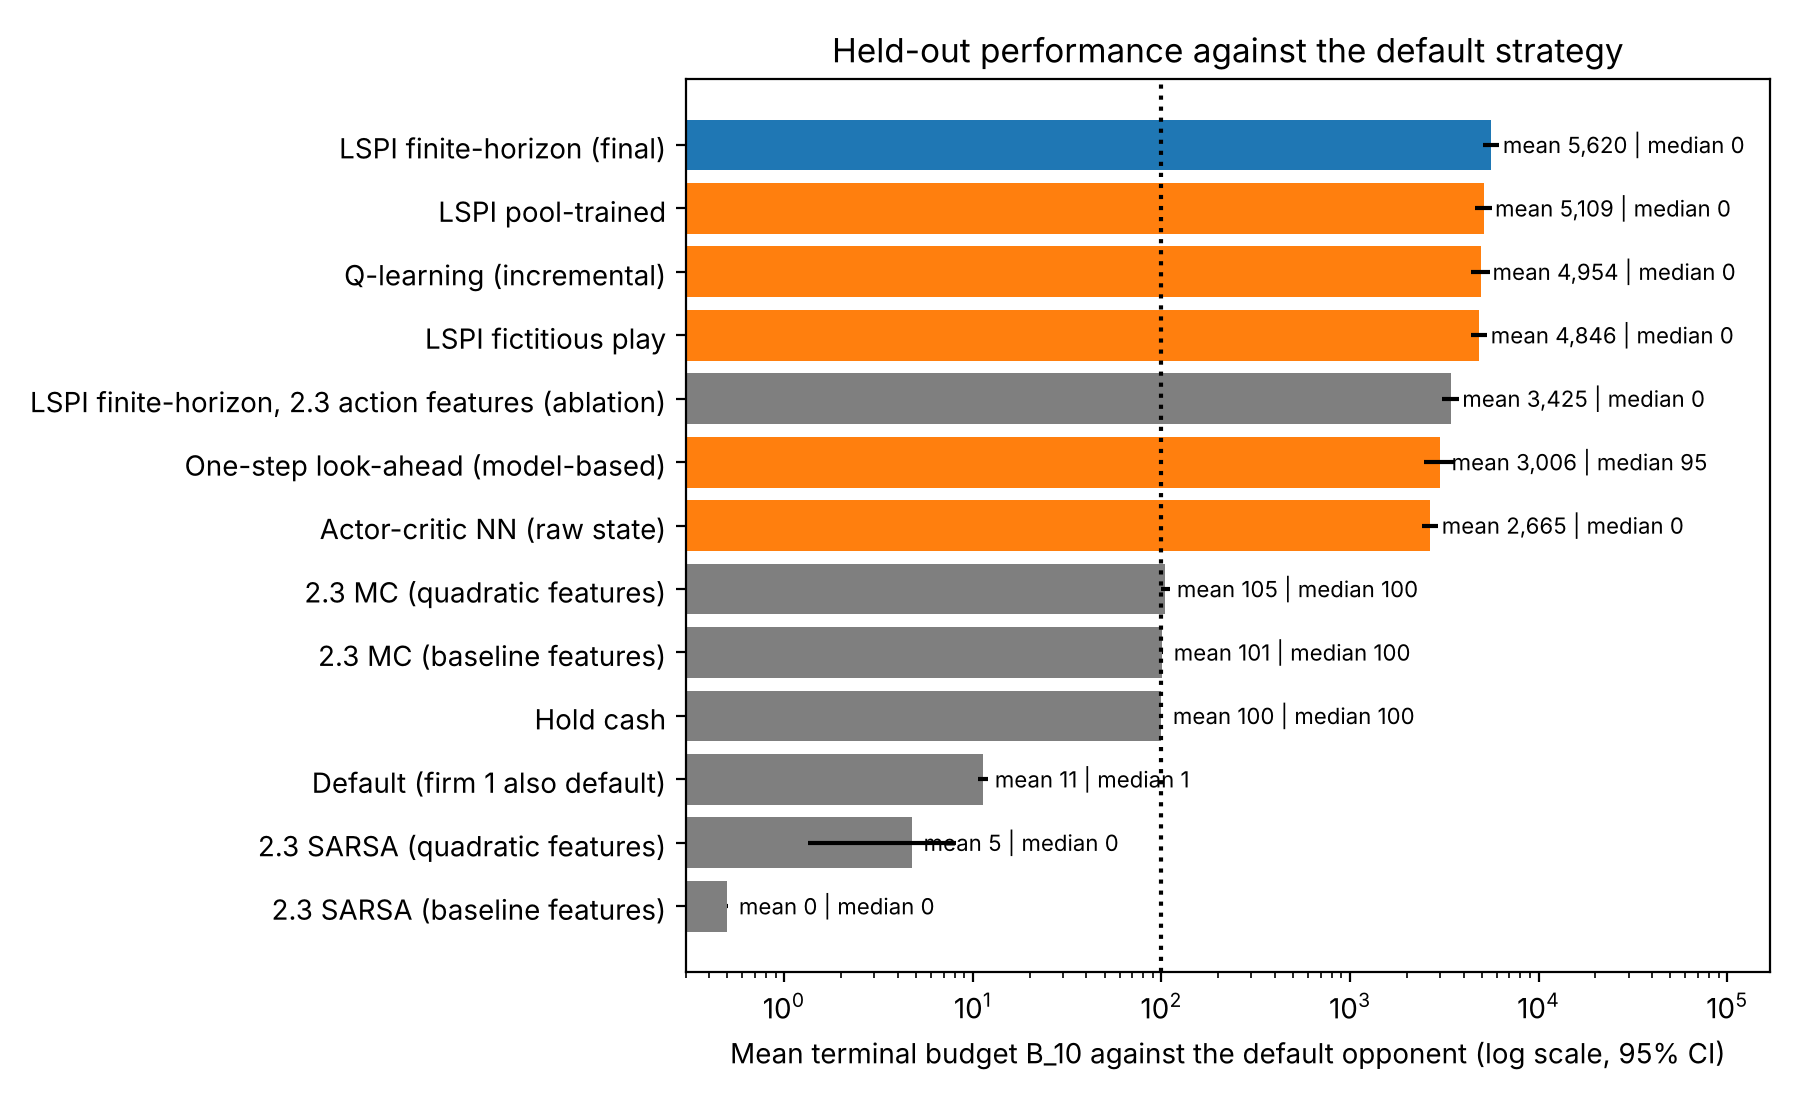
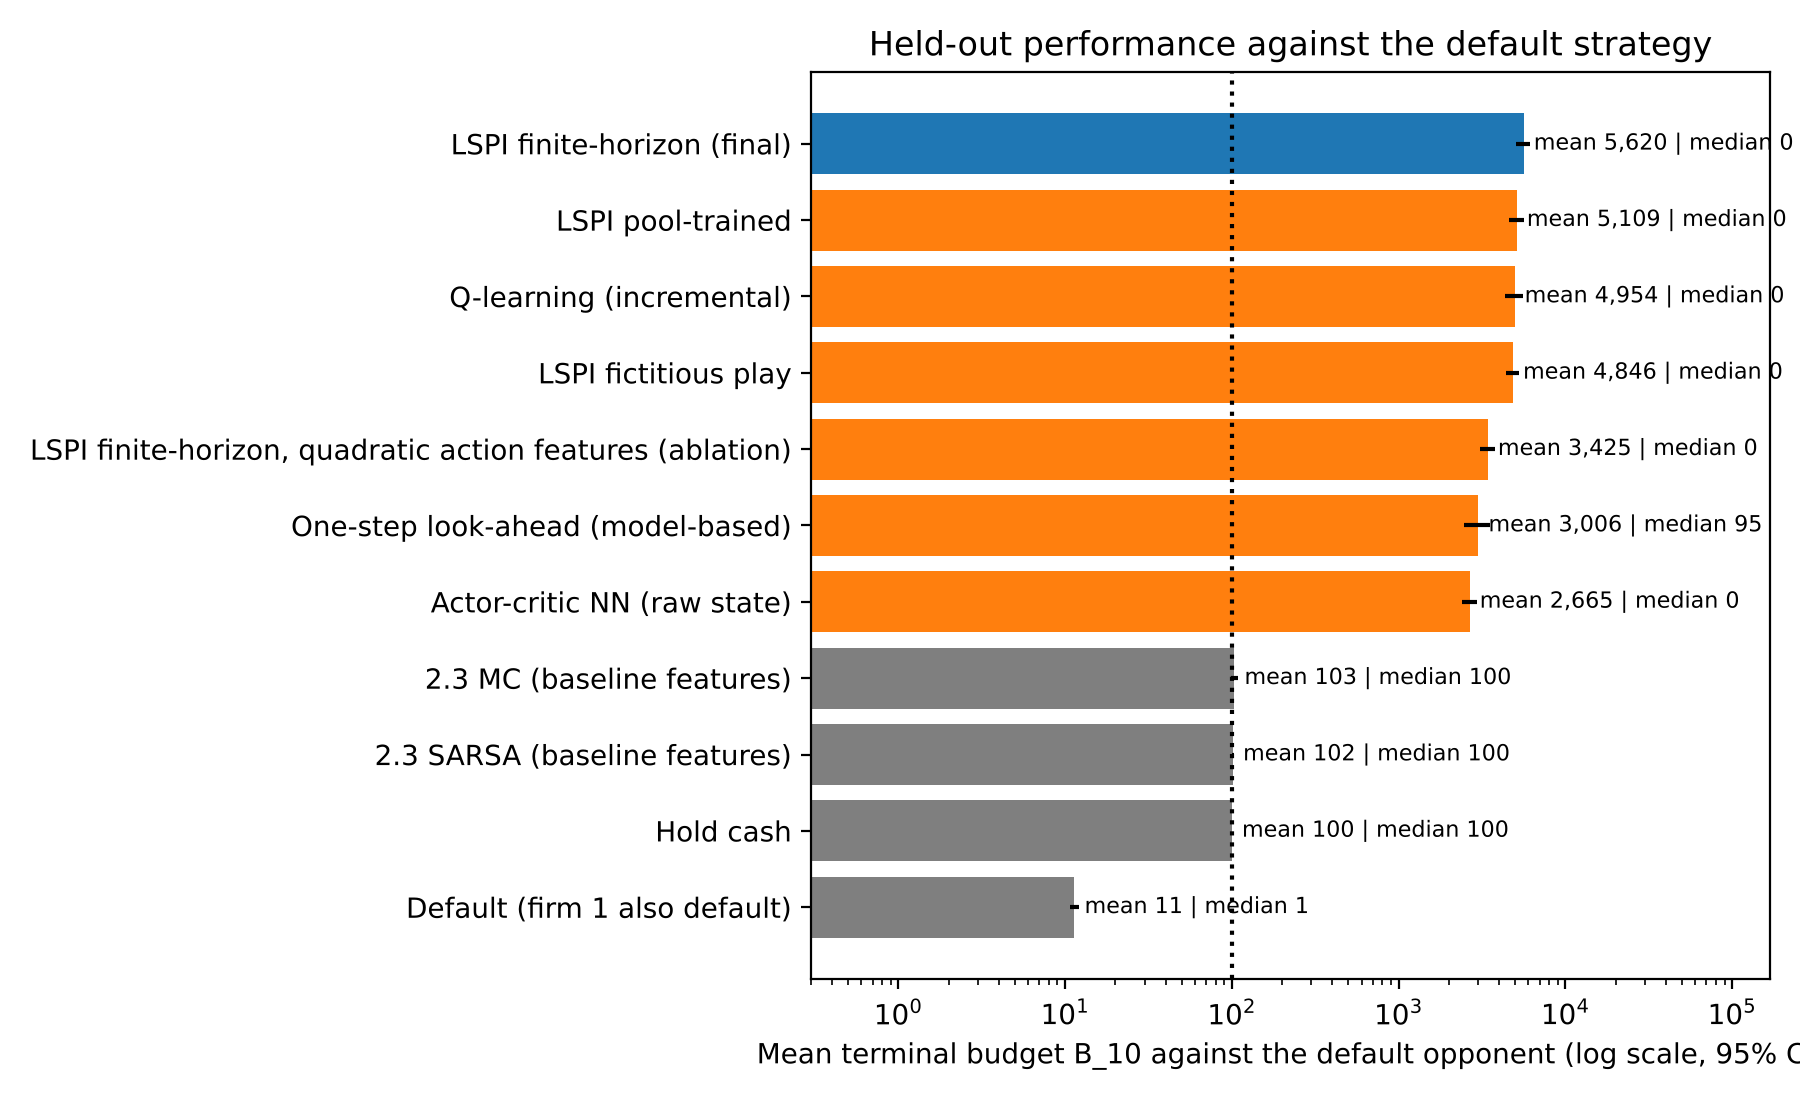
2.4: work with Hayden's control.py

Changed region(s): [[0.0311, 0.0309, 1.0, 0.9891], [0.0311, 0.34, 0.1556, 0.3709]]

diff --git a/refine_experiments.py b/refine_experiments.py
@@ -120,7 +120,7 @@ def run_experiments(theta_final, curve_final):
     th_plain, _ = train_backward(**FINAL_CFG, verbose=False)
     b1, b2 = rollouts(greedy_batch(th_plain), default_opponent_policy, TEST_GAMES, seed=TEST_SEED)
     refine.FEATURE_SET = "economic"
-    ablation_row = dict(name="LSPI finite-horizon, 2.3 action features (ablation)",
+    ablation_row = dict(name="LSPI finite-horizon, quadratic action features (ablation)",
                         **summarise(b1, b2), p_zero=float(np.mean(b1 == 0)),
                         p_above_100=float(np.mean(b1 > 100)))
 
@@ -177,19 +177,18 @@ def run_experiments(theta_final, curve_final):
 
 
 def evaluate_23_baselines(n_games=2000):
-    """Train and evaluate the group's 2.3 MC and SARSA agents (control.py)."""
+    """Train and evaluate the baseline MC and SARSA agents supported by control.py."""
     import control
     rows = []
+    n_ep = 3000 if not os.environ.get("REFINE_QUICK") else 50
     for method, alpha in (("MC", 0.001), ("SARSA", 0.005)):
-        for feats in ("baseline", "quadratic"):
-            n_ep = 3000 if not os.environ.get("REFINE_QUICK") else 50
-            theta, _, _ = control.train_control(method, feats, n_ep, 123, n_ep, 20, alpha)
-            r = control.evaluate_policy(theta, feats, n_games, seed=TEST_SEED)
-            rows.append(dict(name=f"2.3 {method} ({feats} features)", mean=r["mean"],
-                             se=r["se"], median=r["median"], win_rate=r["win_rate"],
-                             opp_mean=float(np.mean(r["opponent"])),
-                             p_zero=float(np.mean(r["own"] == 0)),
-                             p_above_100=float(np.mean(r["own"] > 100))))
+        theta, _, _ = control.train_control(method, "baseline", n_ep, 123, n_ep, 20, alpha)
+        r = control.evaluate_policy(theta, "baseline", n_games, seed=TEST_SEED)
+        rows.append(dict(name=f"2.3 {method} (baseline features)", mean=r["mean"],
+                         se=r["se"], median=r["median"], win_rate=r["win_rate"],
+                         opp_mean=float(np.mean(r["opponent"])),
+                         p_zero=float(np.mean(r["own"] == 0)),
+                         p_above_100=float(np.mean(r["own"] > 100))))
     return rows
 
 
